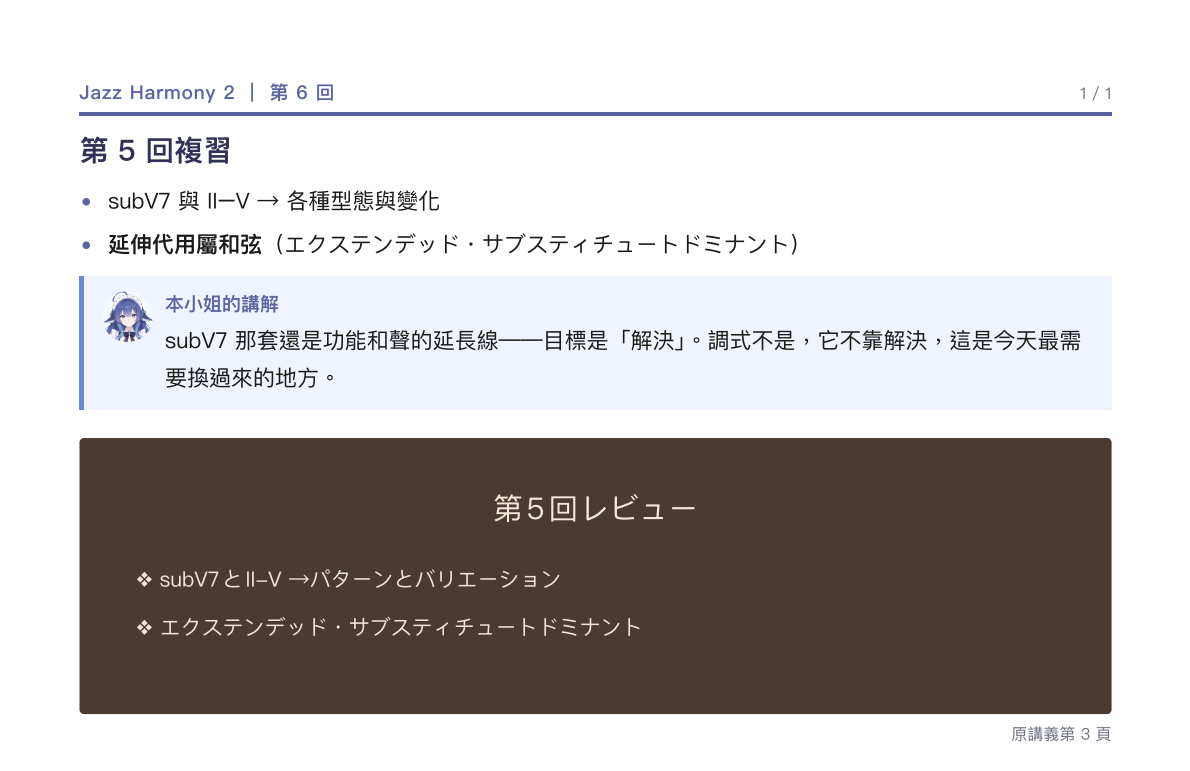
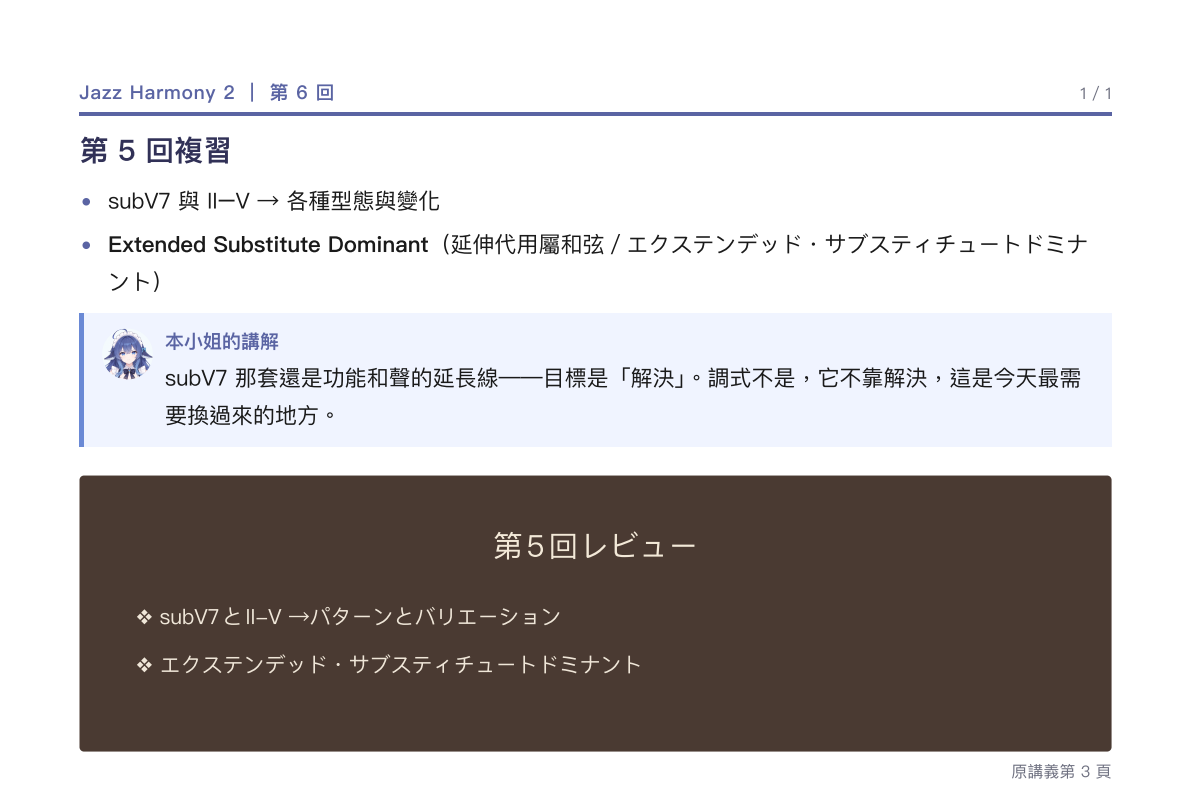
jazz-harmony：術語改成英文優先，中文和日文放括號

diff --git a/presets/jazz-harmony/README.md b/presets/jazz-harmony/README.md
@@ -14,7 +14,8 @@
 - **中文要點在上**（bullet，一節兩三條，短）。
 - **講解框**接在要點後面。
 - **原稿截圖在下**，右下角寫「原講義第 N 頁」。
-- **片假名要拆**：`エクステンデッド・サブスティチュートドミナント（延伸代用屬和弦）`。
+- **術語英文優先，中文和日文放括號**：
+  `Extended Substitute Dominant（延伸代用屬和弦／エクステンデッド・サブスティチュートドミナント）`。
   只留片假名，讀者要在腦裡多轉一次。
 
 ## 絕對不要
